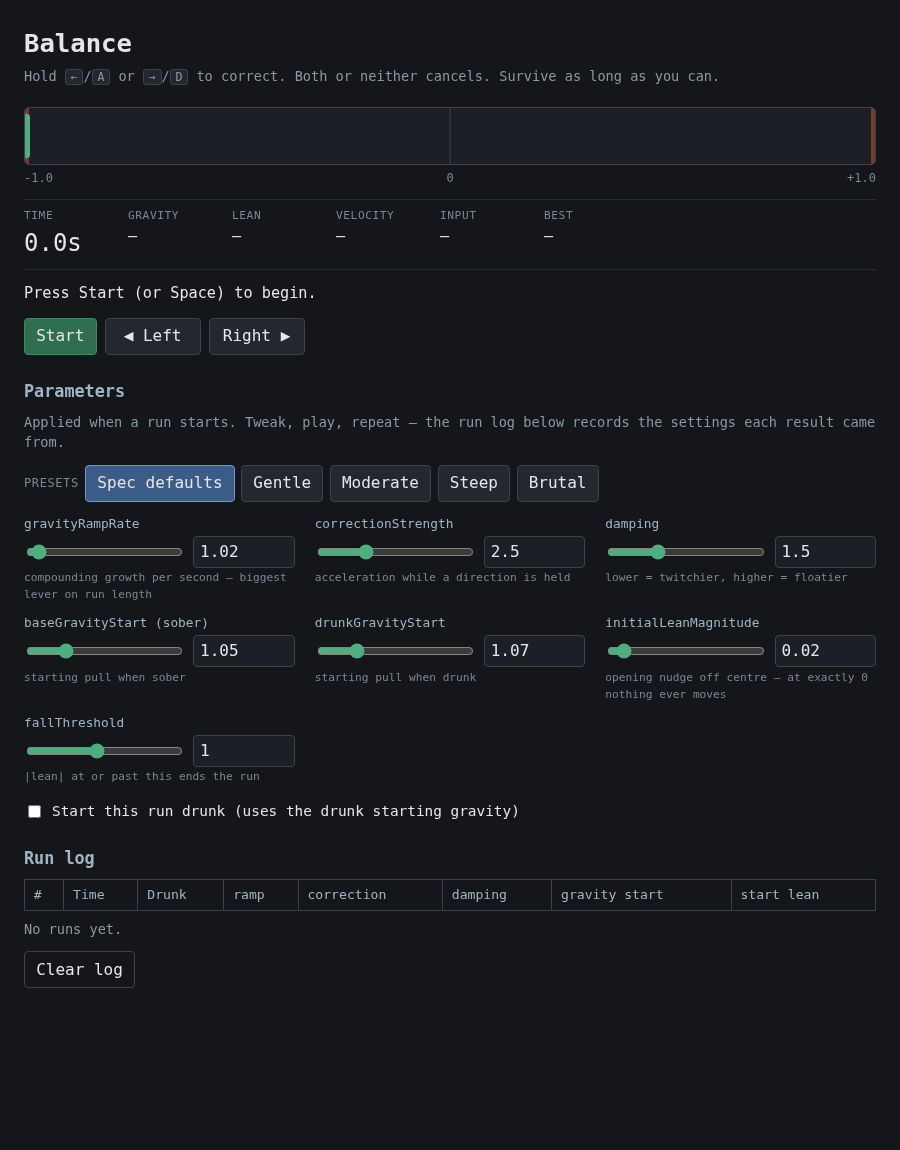
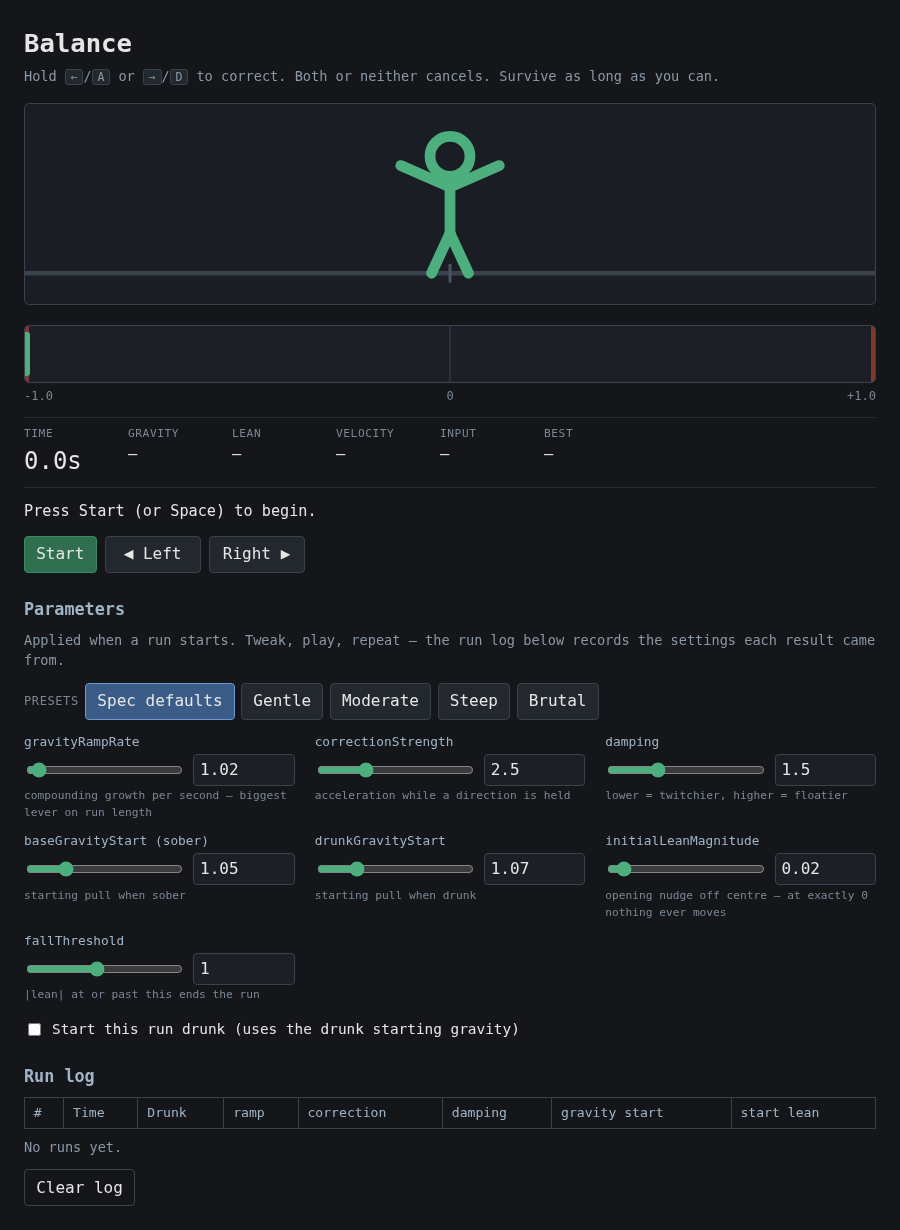
chore(balance): script the screenshot capture and reshoot
The set was hand-taken and went stale the moment the figure landed. This
drives the shots through real clicks so a rerun is a clean diff, and adds
a run-log shot. Parameters are set through the form rather than the test
hook, so what the screenshot shows is what the run actually used.

Claude-Session: https://claude.ai/code/session_01Ww7seCjpzBJCbNuH6UMmJM

diff --git a/minigames/minigame-balance/tests/capture-screenshots.js b/minigames/minigame-balance/tests/capture-screenshots.js
@@ -1,0 +1,74 @@
+// Recapture screenshots/ from the running app.
+// Run: node tests/capture-screenshots.js  (starts its own static server)
+//
+// A run's starting lean sign is random, so these are not byte-identical between runs the
+// way the trade-war set is. The config is pinned and the poses are driven through the
+// test hook, so the framing and the state each shot is in are the same every time.
+
+import { chromium } from 'playwright';
+import { spawn } from 'node:child_process';
+import { mkdirSync } from 'node:fs';
+import { fileURLToPath } from 'node:url';
+import path from 'node:path';
+
+const ROOT = path.resolve(path.dirname(fileURLToPath(import.meta.url)), '..');
+const OUT = path.join(ROOT, 'screenshots');
+const PORT = Number(process.env.BAL_PORT ?? 8141);
+const URL = `http://127.0.0.1:${PORT}/index.html`;
+
+const server = spawn('python3', ['-m', 'http.server', String(PORT), '--bind', '127.0.0.1'], {
+  cwd: ROOT, stdio: 'ignore',
+});
+for (let i = 0; ; i++) {
+  try { if ((await fetch(URL)).ok) break; } catch { /* not up yet */ }
+  if (i > 40) { server.kill(); throw new Error(`server never came up on ${PORT} (set BAL_PORT)`); }
+  await new Promise((r) => setTimeout(r, 250));
+}
+
+mkdirSync(OUT, { recursive: true });
+const browser = await chromium.launch();
+const page = await browser.newPage({ viewport: { width: 900, height: 1150 } });
+
+async function shot(name) {
+  const file = path.join(OUT, `${name}.png`);
+  await page.screenshot({ path: file, fullPage: true });
+  console.log(`  ${path.relative(ROOT, file)}`);
+}
+
+console.log('capturing balance screenshots:');
+try {
+  // 1 — idle: figure upright, nothing running
+  await page.goto(URL);
+  await shot('1-idle');
+
+  // 2 — mid-run, leaning, with a correction held so the arms are swung.
+  // Set through the form rather than the test hook, so the parameters visible in the shot
+  // are the ones the run is actually using.
+  for (const [param, value] of [['initialLeanMagnitude', '0.3'], ['damping', '0.4']]) {
+    await page.fill(`#num-${param}`, value);
+    await page.dispatchEvent(`#num-${param}`, 'input');
+  }
+  await page.click('#start');
+  await page.waitForTimeout(350);
+  await page.evaluate(() => window.__bal.setHeld(true, false));
+  await page.waitForTimeout(250);
+  await shot('2-running');
+  await page.evaluate(() => window.__bal.setHeld(false, false));
+
+  // 3 — fallen: the topple, red, with the run logged
+  await page.waitForFunction(() => window.__bal.getState().isFallen, null, { timeout: 30000 });
+  await page.waitForTimeout(500); // let the topple animation land
+  await shot('3-fallen');
+
+  // 4 — the run log after a few runs, which is what the tuning loop is for
+  for (let i = 0; i < 2; i++) {
+    await page.click('#start');
+    await page.waitForFunction(() => window.__bal.getState().isFallen, null, { timeout: 30000 });
+  }
+  await page.waitForTimeout(400);
+  await shot('4-run-log');
+} finally {
+  await browser.close();
+  server.kill();
+}
+console.log('done.');

diff --git a/minigames/minigame-balance/README.md b/minigames/minigame-balance/README.md
@@ -12,7 +12,9 @@ src/ui.js              render loop, keyboard, tuning form
 build.js               inlines everything into one distributable HTML file
 tests/logic-tests.js   physics checks (node)
 tests/browser-tests.js end-to-end checks driving real Chromium input
+tests/capture-screenshots.js  regenerates screenshots/
 dist/balance.html      generated — the double-click build
+screenshots/           captured from the running app (npm run shots)
 ```
 
 ## Run
@@ -22,6 +24,7 @@ npm run serve       # http://127.0.0.1:8140/index.html
 npm test            # physics checks
 npm run ui          # end-to-end checks (starts its own server + Chromium)
 npm run build       # -> dist/balance.html, one self-contained file
+npm run shots       # recapture screenshots/ from the running app
 ```
 
 Set `BAL_PORT` if 8140 is taken. `npm run ui` needs `npx playwright install chromium` once.
